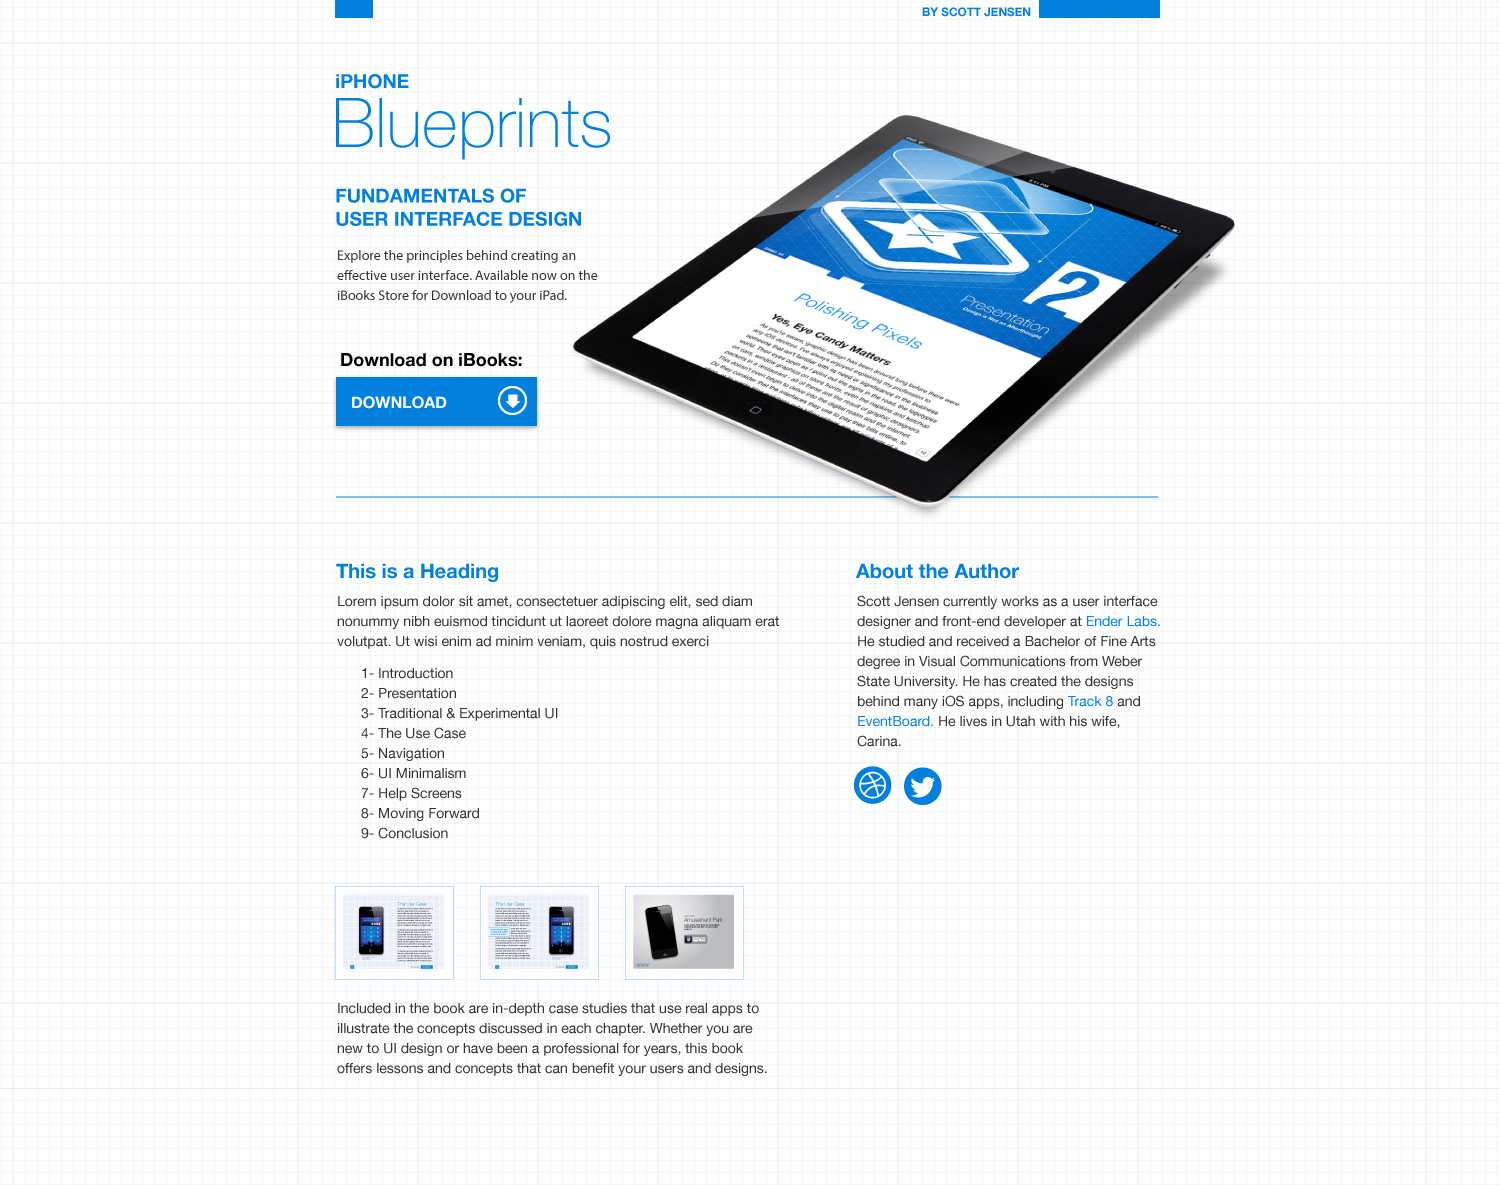
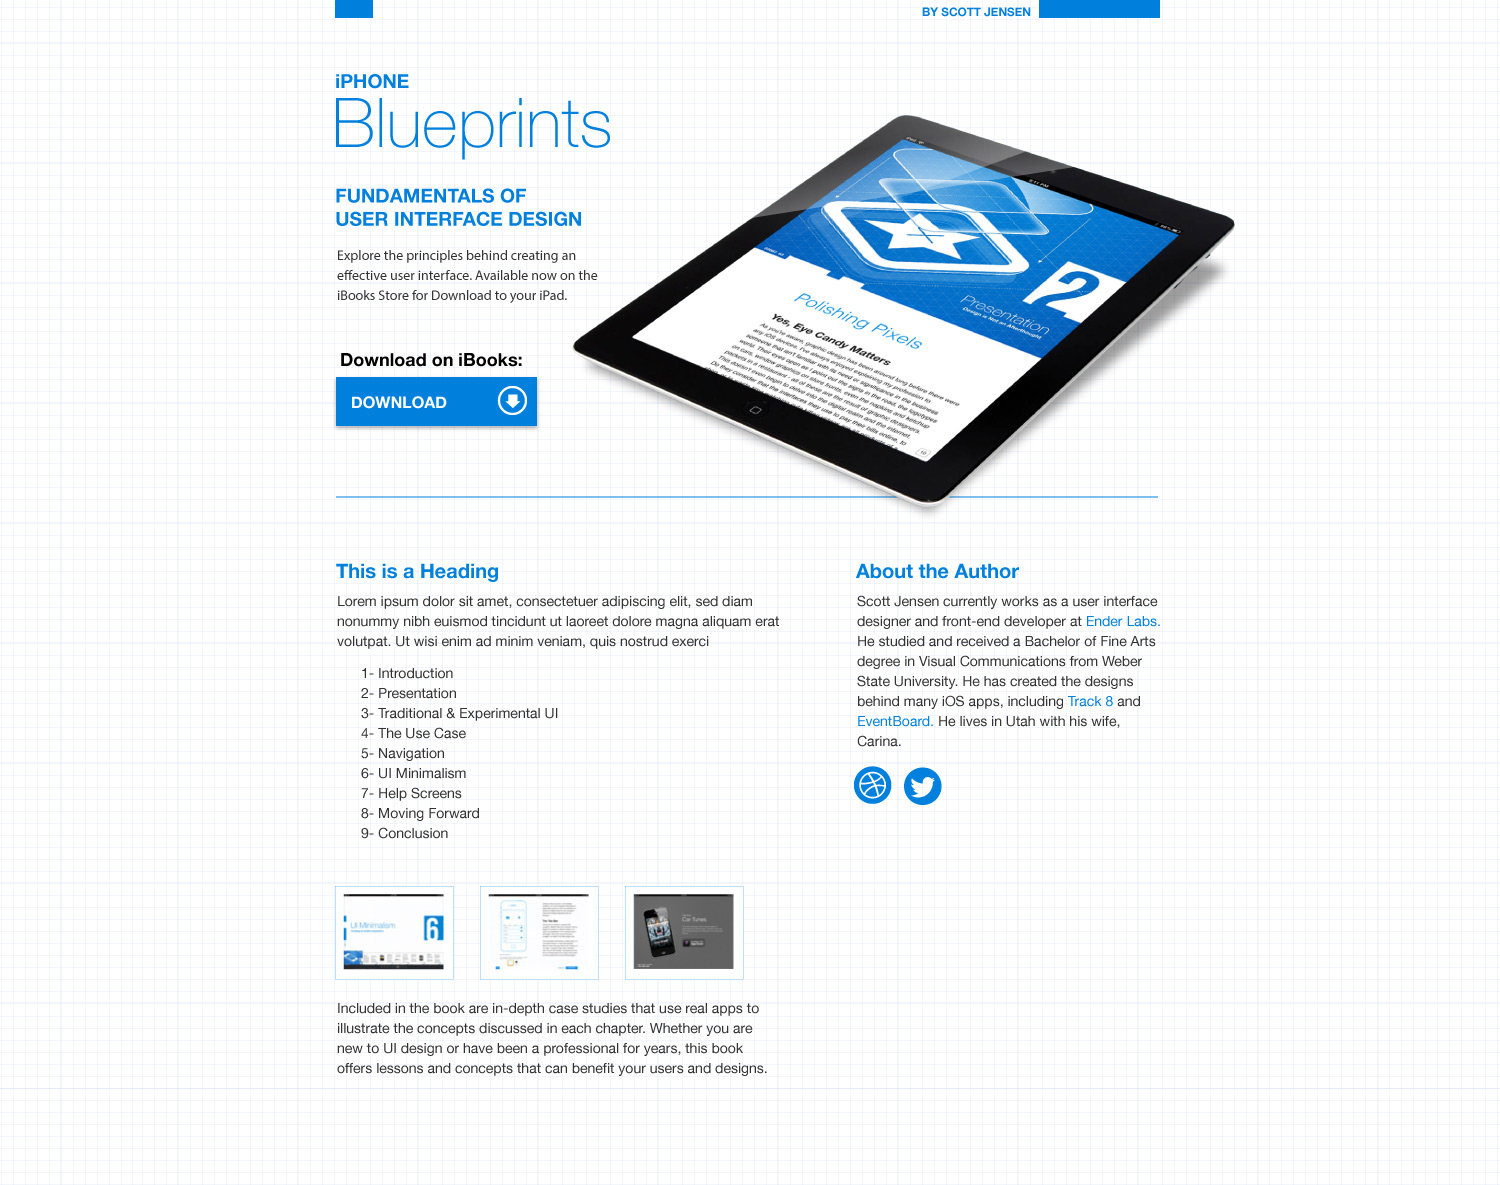
a couple image fixes

Changed region(s): [[0.2147, 0.7494, 0.4907, 0.843]]

diff --git a/projects/project1.html b/projects/project1.html
@@ -100,7 +100,7 @@
 
     <ul id="project-slides">
         <li id="slide1" class="slide"><img src="../images/project-images/neutron3.jpg" alt="Project Image" class="project-image" /></li>
-        <li id="slide2" class="slide"><img src="../images/project-images/blueprints1.jpg" alt="Project Image" class="project-image" /></li>
+        <li id="slide2" class="slide"><img src="../images/project-images/blueprints4.jpg" alt="Project Image" class="project-image" /></li>
         <li id="slide3" class="slide"><img src="../images/project-images/enderlabs-5.jpg" alt="Project Image" class="project-image" /></li>
         <li id="slide4" class="slide"><img src="../images/project-images/eventboard-marketing4.jpg" alt="Project Image" class="project-image" /></li>
         <li id="slide5" class="slide"><img src="../images/project-images/eventboard-marketing1.jpg" alt="Project Image" class="project-image" /></li>
